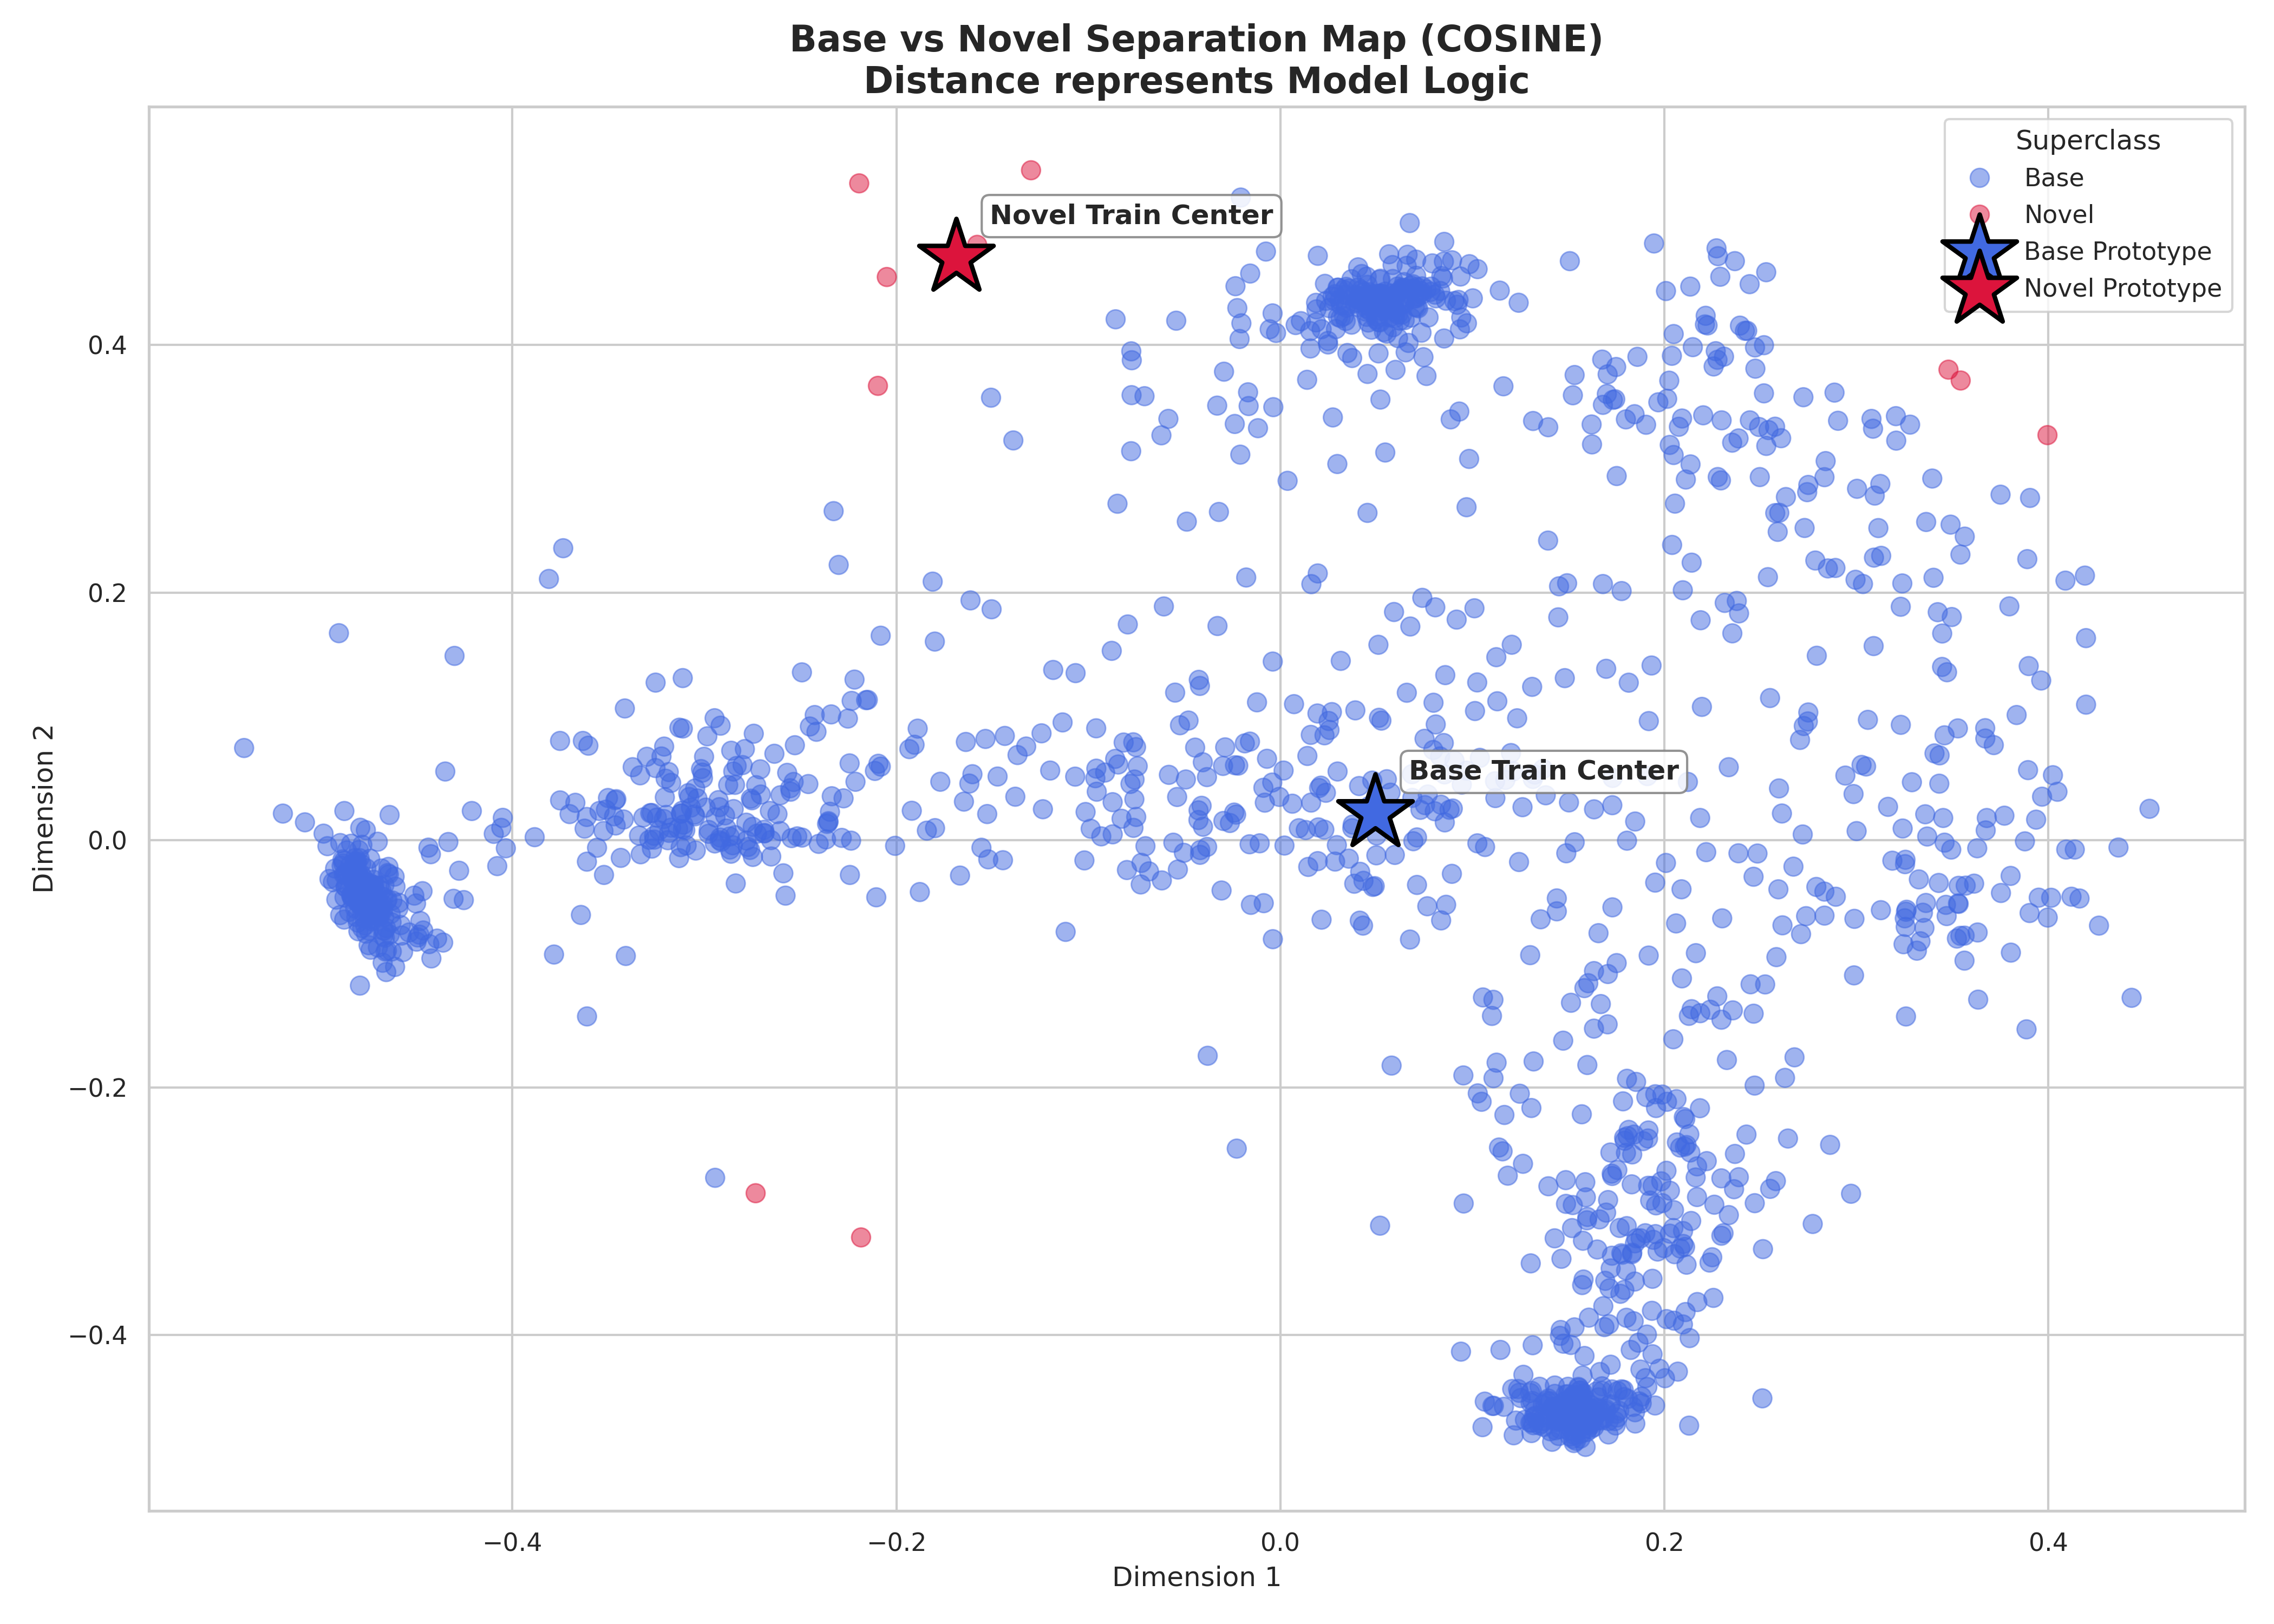
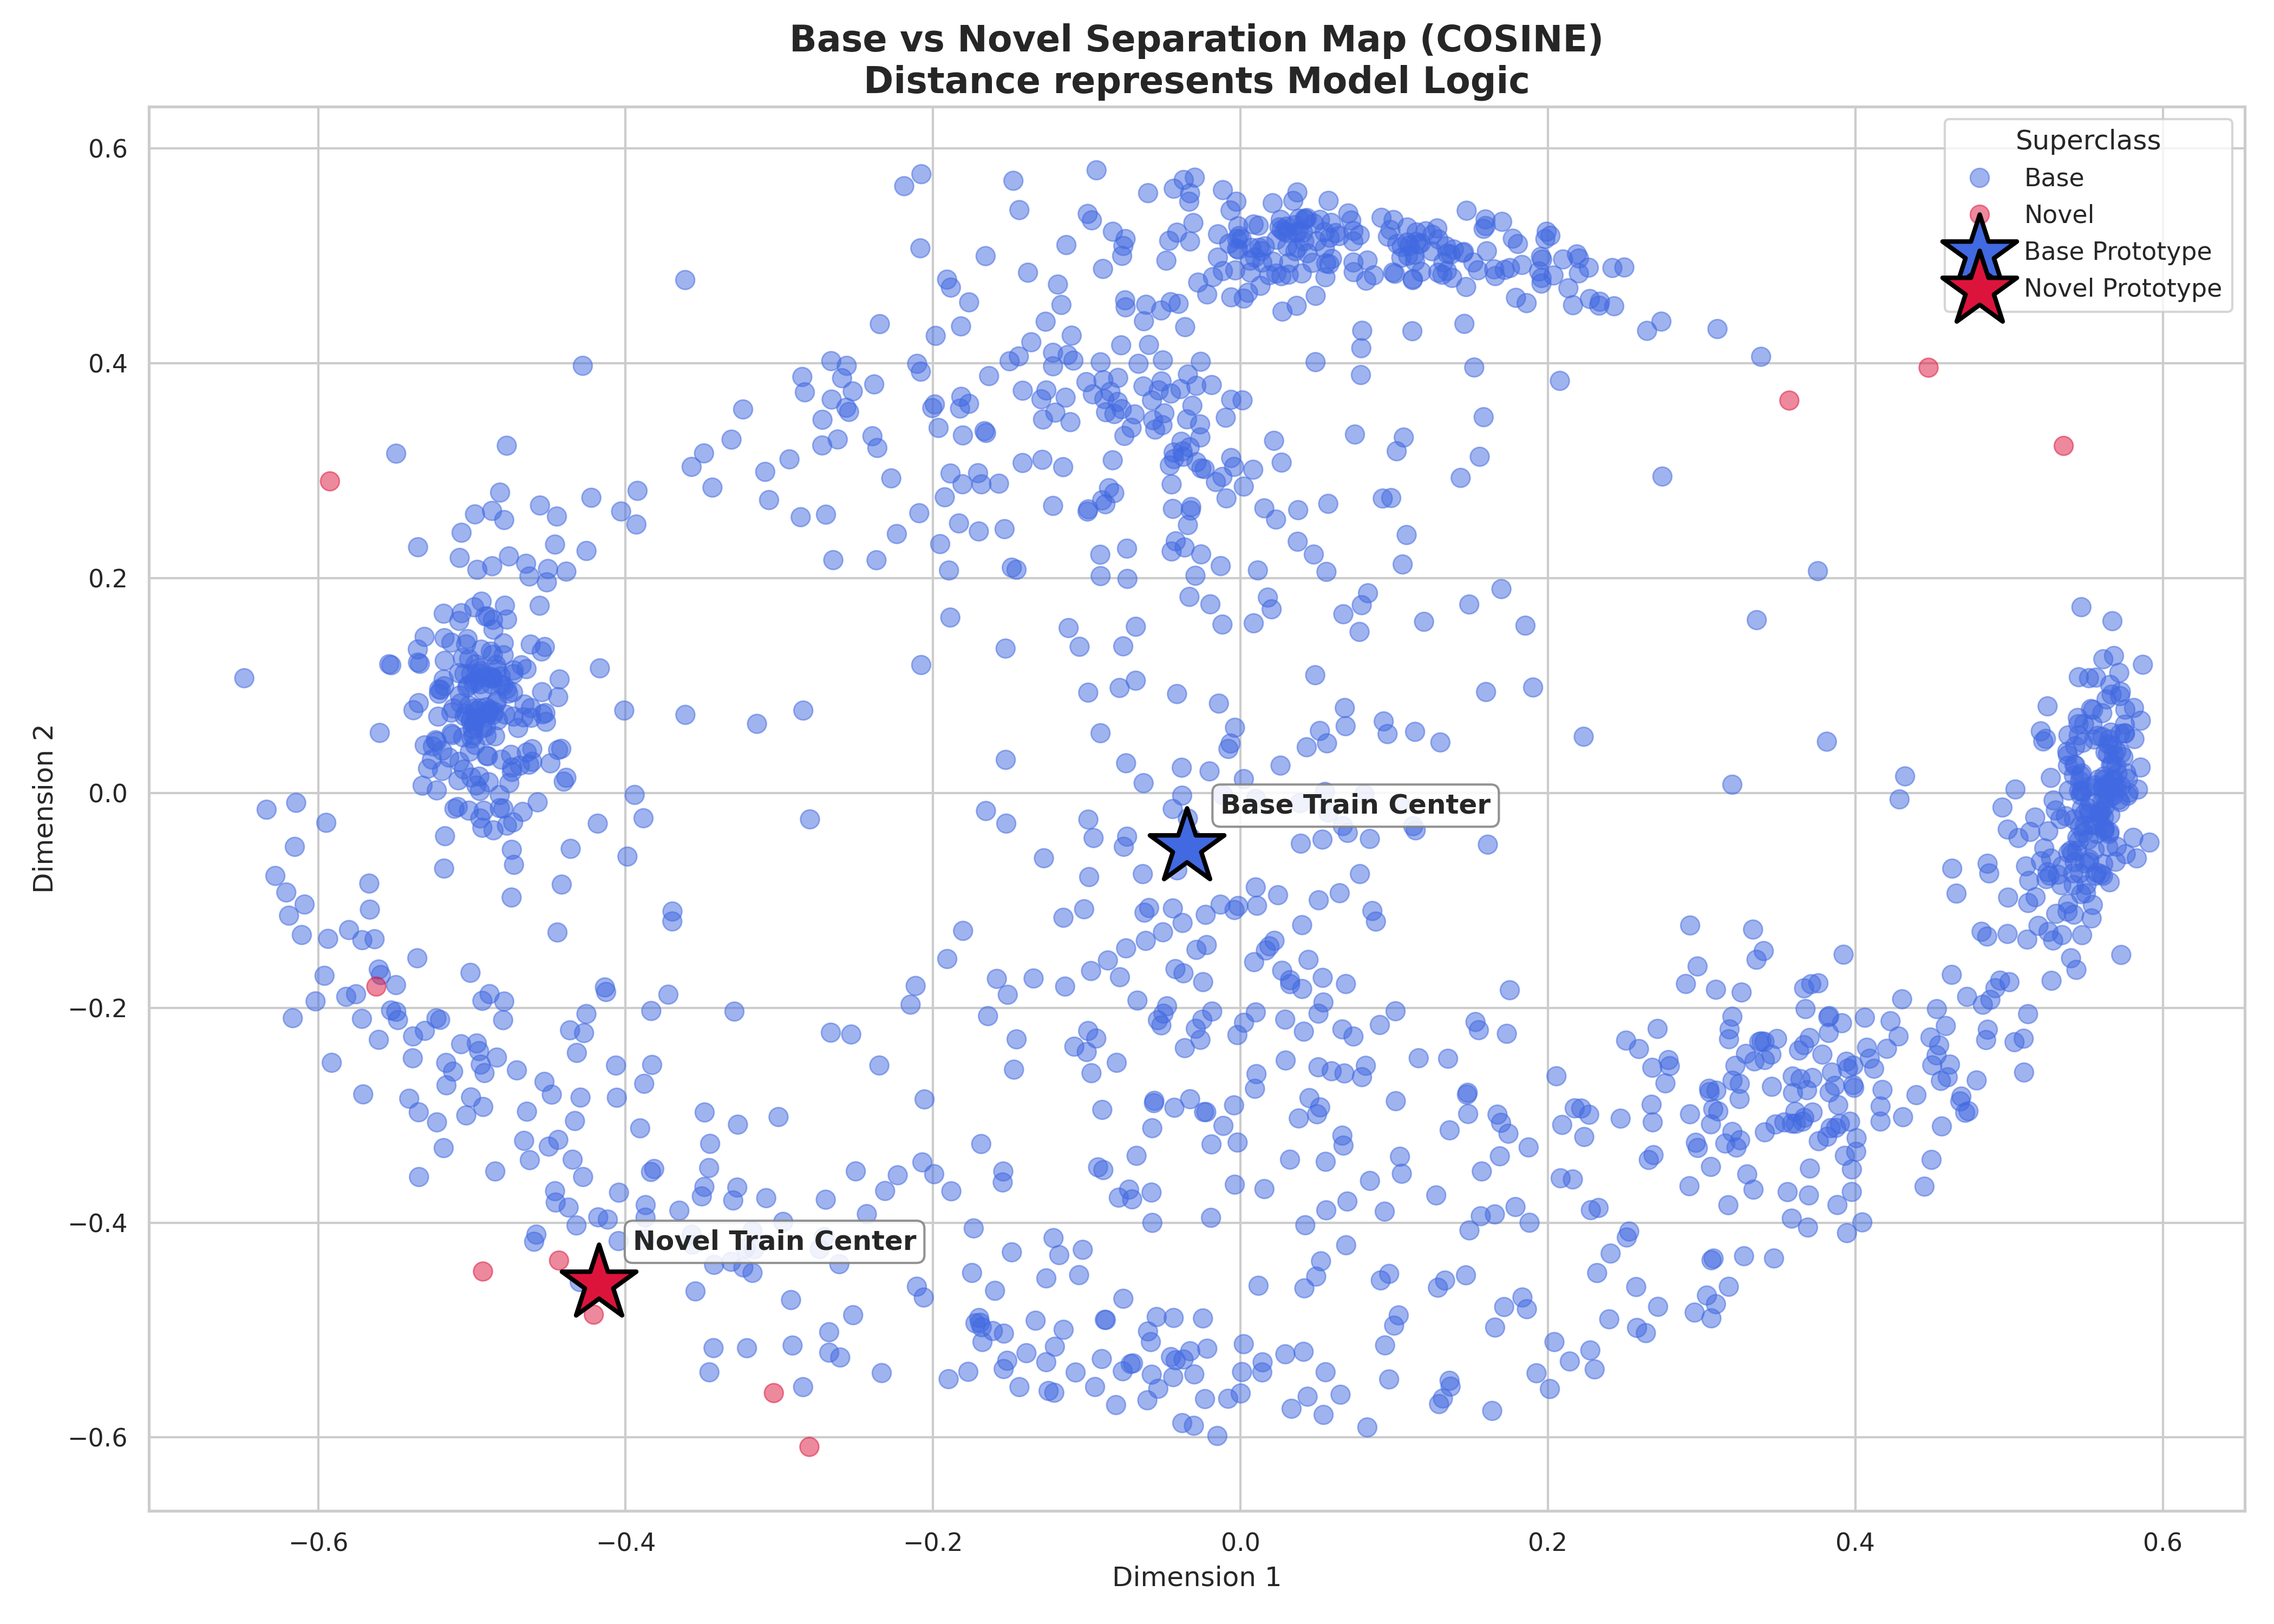
Last layer of MLP substituded with cosine distance layer.

diff --git a/Outputs6_Based_on_Forklifts/Lavyanut/10_shots/Forklifts/MLP-Pytorch-Few-Shots-focal_center-Loss-TOP3-COSINE-Distance-F-SCORE-combined-Based/code_that_made_it.py b/Outputs6_Based_on_Forklifts/Lavyanut/10_shots/Forklifts/MLP-Pytorch-Few-Shots-focal_center-Loss-TOP3-COSINE-Distance-F-SCORE-combined-Based/code_that_made_it.py
@@ -139,18 +139,29 @@ else:
 # 1. PyTorch Model and Center Loss Definitions
 # ==========================================
 
+class CosineLinear(nn.Module):
+    def __init__(self, in_features, out_features, scale=15.0):
+        super(CosineLinear, self).__init__()
+        self.in_features = in_features
+        self.out_features = out_features
+        self.weight = nn.Parameter(torch.Tensor(out_features, in_features))
+        nn.init.xavier_uniform_(self.weight)
+        self.scale = scale
+
+    def forward(self, input):
+        x_norm = F.normalize(input, p=2, dim=1)
+        w_norm = F.normalize(self.weight, p=2, dim=1)
+        return F.linear(x_norm, w_norm) * self.scale
+
 class MLP_PyTorch(nn.Module):
-    """
-    Replicates the scikit-learn MLP architecture:
-    Input -> Linear(512) -> ReLU -> Linear(256) -> ReLU -> Linear(num_classes)
-    """
     def __init__(self, input_dim, num_classes):
         super(MLP_PyTorch, self).__init__()
-        self.fc1 = nn.Linear(input_dim, 256) # Reduced size
-        self.dropout1 = nn.Dropout(p=0.4)    # Added dropout
-        self.fc2 = nn.Linear(256, 128)       # Reduced size
-        self.dropout2 = nn.Dropout(p=0.4)    # Added dropout
-        self.fc3 = nn.Linear(128, num_classes)
+        self.fc1 = nn.Linear(input_dim, 256) 
+        self.dropout1 = nn.Dropout(p=0.4)    
+        self.fc2 = nn.Linear(256, 128)       
+        self.dropout2 = nn.Dropout(p=0.4)    
+        # Use Cosine Classifier instead of standard Linear
+        self.fc3 = CosineLinear(128, num_classes)
 
     def forward(self, x):
         h1 = F.relu(self.fc1(x))
@@ -158,7 +169,7 @@ class MLP_PyTorch(nn.Module):
         h2 = F.relu(self.fc2(h1))
         h2_drop = self.dropout2(h2)
         logits = self.fc3(h2_drop)
-        return logits, h2 # Still return pure h2 for metric distances
+        return logits, h2
     
 
 class FocalLoss(nn.Module):